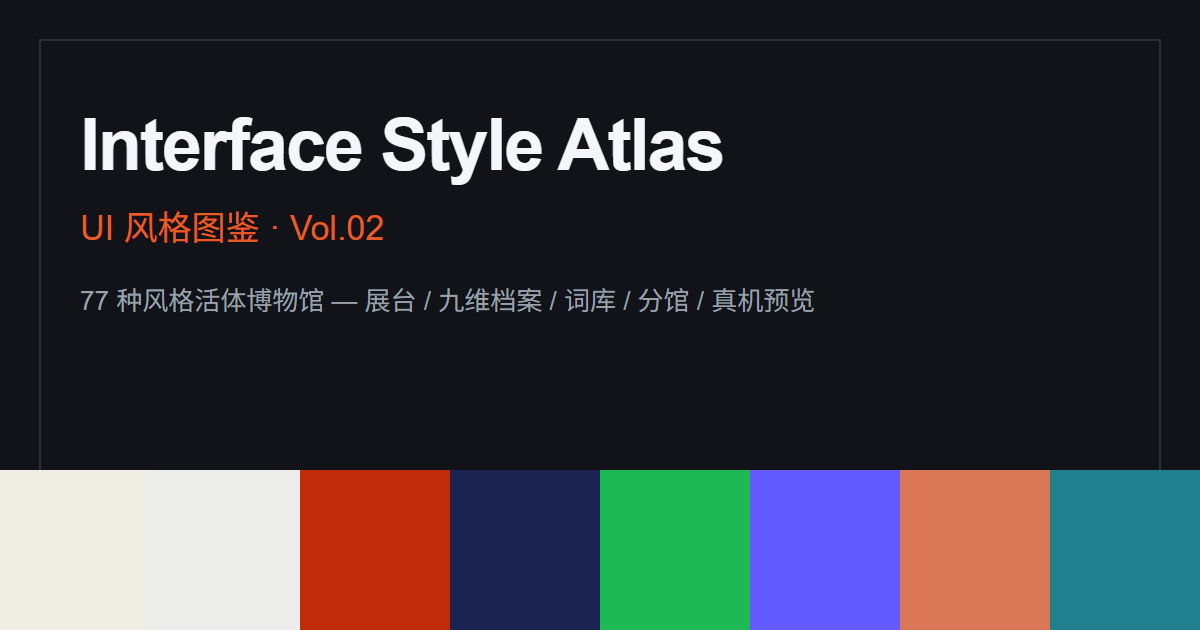
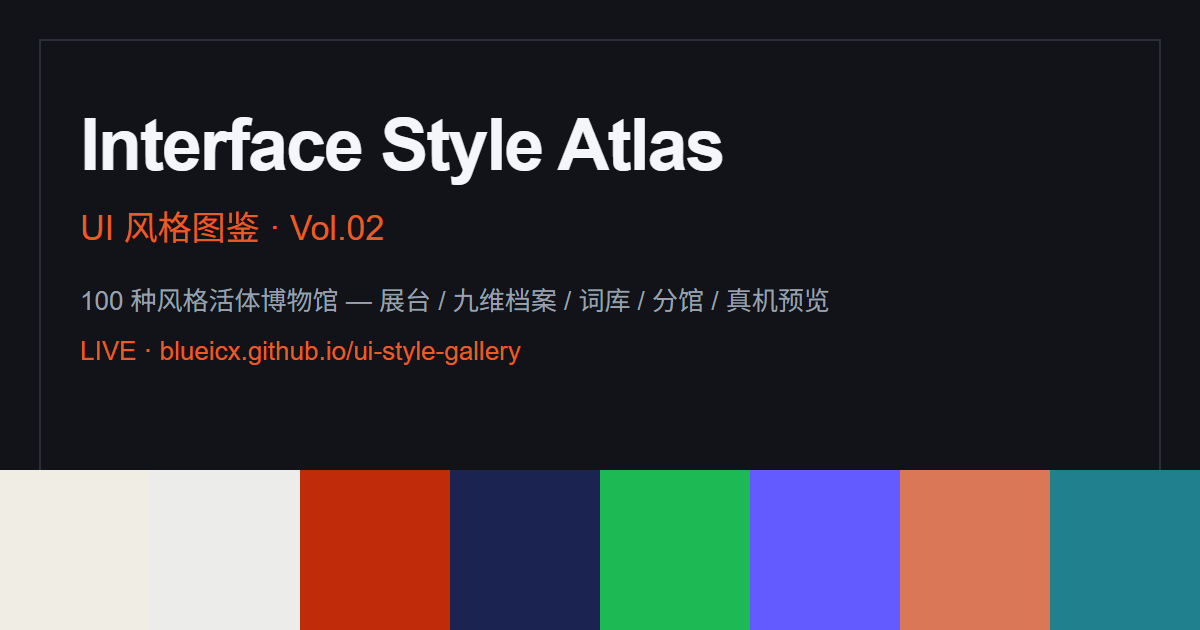
feat: English README (README.en.md), GitHub Pages live URL in docs/og/meta, bilingual count guards (16)

Changed region(s): [[0.0617, 0.4524, 0.7092, 0.5127], [0.0617, 0.5429, 0.4317, 0.573]]

diff --git a/verify.js b/verify.js
@@ -152,10 +152,21 @@ const docClaims = [
   ['手机区风格数',  rdNum(/手机专属区\D*?(\d+) 台/),      r.exhibits],
 ];
 if (kCmd) docClaims.push(['⌘K风格数', +kCmd[1], r.exhibits], ['⌘K视图数', +kCmd[2], tabs], ['⌘K词条数', +kCmd[3], r.lexTerms]);
+// 英文版手册 README.en.md 同受计数守卫（措辞锚点：'N UI design styles' / '**N colors**' / 'N design concepts' / 'N specimens' / 'N views'）
+const readmeEn = fs.existsSync(__dirname + '/README.en.md') ? fs.readFileSync(__dirname + '/README.en.md', 'utf8') : '';
+if (readmeEn) {
+  const enNum = re => { const m = readmeEn.match(re); return m ? +m[1] : null; };
+  docClaims.push(
+    ['EN风格数', enNum(/(\d+) UI design styles/), r.exhibits],
+    ['EN色卡数', enNum(/\*\*(\d+) colors\*\*/),   r.uniqueColors],
+    ['EN词条数', enNum(/(\d+) design concepts/),  r.lexTerms],
+    ['EN标本数', enNum(/(\d+) specimens/),         r.specimens],
+    ['EN视图数', enNum(/styles \/ (\d+) views/), tabs]);
+}
 const docDrift = docClaims
   .filter(c => c[1] === null || c[1] !== c[2])
   .map(c => c[0] + (c[1] === null ? ':正则未命中(README 措辞变了,需同步守卫)' : ':doc=' + c[1] + '/data=' + c[2]));
-expect('README 计数守卫(11 处文档数字=数据真值)', docClaims.length === 11 && docDrift.length === 0, docDrift.join('; ') || ('claims=' + docClaims.length));
+expect('README 双语计数守卫(' + docClaims.length + ' 处文档数字=数据真值)', docDrift.length === 0, docDrift.join('; ') || ('claims=' + docClaims.length));
 
 console.log(fails.length ? '\n✗ '+fails.length+' 项未通过' : '\nALL PASS');
 process.exit(fails.length ? 1 : 0);

diff --git a/index.html b/index.html
@@ -3,11 +3,14 @@
 <head>
 <meta charset="UTF-8">
 <meta name="viewport" content="width=device-width, initial-scale=1.0, viewport-fit=cover">
-<meta name="description" content="UI 风格图鉴 · 77 种界面设计风格活体博物馆：活体展台 / 九维档案 / 专业词库 / 维度分馆 / 手机真机预览">
+<meta name="description" content="UI 风格图鉴 · 100 种界面设计风格活体博物馆：活体展台 / 九维档案 / 专业词库 / 维度分馆 / 手机真机预览 · 100 UI styles in one living museum">
 <meta property="og:title" content="Interface Style Atlas · UI 风格图鉴 Vol.02">
-<meta property="og:description" content="77 种风格活体博物馆 — 展台 / 九维档案 / 词库 / 分馆 / 真机预览">
-<meta property="og:image" content="og.png">
+<meta property="og:description" content="100 种风格活体博物馆 — 展台 / 九维档案 / 词库 / 分馆 / 真机预览 · 100 UI styles side by side">
+<meta property="og:url" content="https://blueicx.github.io/ui-style-gallery/">
+<meta property="og:image" content="https://blueicx.github.io/ui-style-gallery/og.png">
 <meta name="twitter:card" content="summary_large_image">
+<meta name="twitter:image" content="https://blueicx.github.io/ui-style-gallery/og.png">
+<link rel="canonical" href="https://blueicx.github.io/ui-style-gallery/">
 <title>UI 风格图鉴 · Interface Style Atlas Vol.02</title>
 <meta property="og:type" content="website">
 <script>

diff --git a/README.en.md b/README.en.md
@@ -1,0 +1,117 @@
+# UI Style Atlas · Interface Style Atlas Vol.02
+
+🌐 **LIVE demo**: https://blueicx.github.io/ui-style-gallery/ ｜ 📦 GitHub: https://github.com/blueicx/ui-style-gallery
+🌍 English ｜ [🈶 中文](README.md)
+
+A "living museum" reference atlas of UI design styles: **100 UI design styles** rendered side by side on one identical component baseline (navigation / buttons / forms / cards), each with a nine-dimension design profile and a copy-ready AI prompt.
+
+Single-file delivery · zero build dependencies · works offline · WCAG AA baseline. Maintainers, read [HANDOFF.md](HANDOFF.md) first.
+
+## File inventory
+
+| File | Description |
+|------|-------------|
+| `index.html` | The atlas itself (fully self-contained: styles + data + 13 render engines) |
+| `verify.js` | Resident regression suite: `node verify.js` (or `npm test`) runs 46 assertions incl. bilingual README count guards; non-zero exit = regression |
+| `README.md` | Authoritative feature list (Chinese, for users); `README.en.md` — this file |
+| `HANDOFF.md` | Handoff doc (for maintainers): internals, checklists, pitfall list |
+| `add_style.js` | Style scaffold: `node add_style.js --file _spec_sXX.json` (transactional — refuses to write if the result wouldn't compile) |
+| `_spec_s75/76/77.json` … | Example spec files for the scaffold |
+| `bento-demo.html` | Case study: full Bento-style personal homepage |
+| `bento-dashboard.html` | Case study: Bento-style SaaS dashboard |
+| `swiss-portfolio.html` | Case study: Swiss International Style portfolio site (12-col grid / 0px corners / single signal red) |
+| `ui-style-atlas.svg` / `.ico` | Site icons |
+| `og.svg` / `og.png` | Social share card 1200×630 (png rendered from svg via headless Chrome) |
+| `package.json` | Script aliases (test/verify/add), zero npm dependencies |
+| `atlas-v1-backup.html` | Vol.01 archive (30-style edition) |
+
+## Collected styles (100)
+
+**Classics & movements (01–14)**: Swiss International · Neo-Brutalism · Neumorphic Glass · Skeuomorph · GitHub Dark · Terminal Phosphor · Pastel Candy · Newspaper Editorial · Memphis · Bento Grid · Material You · Y2K · Wabi-Sabi · Neo-Brutal Toy
+
+**Retro & tech aesthetics (15–28)**: Retro Arcade · Blueprint Tech · Artisan Craft · Dark Luxury · Dreamcore · Academia Prep · Pro Dark Panel · ASCII Retro-Futurism · Minimal Zen · Cyberpunk · Bauhaus · Constructivism · Acid Graphics · Swiss International (dark)
+
+**Contemporary & cultural (29–36)**: Fluent 2 · Neo-Chinese · Liquid Glass · Vaporwave · Frutiger Aero · Dark Academia · Solarpunk · Art Nouveau
+
+**Big-tech design languages (37–100)**: Apple HIG · IBM Carbon · Ant Design · WeUI · Spotify · Netflix · Linear · Vercel Geist · Stripe · Duolingo · Figma · Notion · Arc · Discord · TikTok · Slack · Airbnb · Douban · Steam · YouTube · Bilibili · Zhihu · Xiaohongshu · X · Reddit · Twitch · Pinterest · LinkedIn · WeChat Read · Pinduoduo · JD.com · Taobao · Weibo · Lark · Xianyu · DingTalk · Safari · Raycast · Claude · v0 · Perplexity · AI-native conversation flow · Conversations-as-UI · Linear dark engineering · Stripe fintech gradient · Japanese editorial magazine · Retro financial terminal · German functionalism · Instagram · NetEase Cloud Music · visionOS spatial glass · Telegram speed blue · Meituan · Alipay · Shopify Polaris · Atlassian Canvas · Salesforce Lightning · Adobe Spectrum · Uber · Revolut dark finance · Claymorphism · Risograph · Pixel Art 8-bit · Cassette Futurism · Webcore
+
+Every exhibit ships with: **number / bilingual name / era / one-line philosophy / best-fit & risky contexts / reference anchors / live component stage / nine-dimension profile / English AI prompt**.
+
+## Feature map
+
+### Browse & learn
+- **Live stages** — identical component baseline across styles; side-by-side comparison is instant
+- **Nine-dimension profiles** — philosophy / type / palette / spacing / shape / shadow / hierarchy / icons / component specs
+- **Lexicon** — 70 design concepts (profile terminology + **specimen language** + **motion patterns**: skeleton shimmer / odometer counters / magnetic hover / parallax layers, etc.): definition + AI keywords + reference cases + cross-links to exhibits and halls
+- **Dimension halls ×7** — specimen-wall architecture: Color Hall = site-wide deduplicated color wall (**312 colors**, hex + usage counts, sort by frequency or hue wheel; detail sheet adds **hue-neighbor suggestions** + a **⚖ WCAG contrast checker** — live ratio for any fg/bg, AA/AAA verdicts, protan/deutan/tritan simulation). The other six halls (type/shape/icon/comp/motion/shadow) = **76 specimens** (all 24 motion personalities genuinely play and honor `prefers-reduced-motion`; shadow specimens copy CSS in one click). Click any swatch or specimen → a layer lists every style using it; classification is hand-curated per style
+- **Deep links into halls** — `#/color?c=FFD166`, `#/shape?s=pill` open the detail layer directly; lexicon terms carry a "◈ see specimens" link; mashup prompts embed shape/shadow specimen jumps
+
+### Choose
+- **3-axis filter** — industry × base tone × mood dropdowns
+- **Full-text search** — covers names/descriptions/prompts/profiles; `Esc` clears; **pinyin search** — type `douyin`, `weixin`, `taobao` to hit Chinese styles
+- **⌘K command palette** — press `/`: one input reaches 100 styles / 18 views / 70 terms / common actions (theme toggle, mashup, wall, tuner); ↑↓ + Enter
+- **Favorites** — persisted in localStorage, "favorites only" filter; plus a management panel (view all, jump, clear)
+- **Recent views** — last 8 exhibits this session, one-click chips under the index bar
+- **A/B compare** — pick 2–3 exhibits → live mini-stages + six-dimension specs side by side
+- **▦ Wall mode** — density toggle: full profiles ⇄ thumbnail wall; click a card to dive back
+- **🎴 Guess-the-style** — flashcard quiz on real stage renders, four options; scoring + streaks + a mistake bank (localStorage, 30% chance to re-serve mistakes)
+- **🌌 Style galaxy** — force-directed universe from six-dimension genes: similar styles cluster (Swiss sits next to German functionalism; Y2K hugs Vaporwave). Drag-pan · wheel-zoom · hover name-tags · click to jump; color by palette or cluster
+- **🎚 Scale generator** (inside Color Hall) — anchor base/accent/dark of any style, interpolate a full 50–950 eleven-step ramp, click to copy
+- **✦ Feeling lucky** — random jump; once you have 4+ favorites it picks from those
+- **Smart index bar** — active pill auto-centers while scrolling, edge fade hints horizontal scroll
+
+### Use
+- **Swatch strip** — 4 signature colors per exhibit, click to copy
+- **CSS token export** — one-click `:root{}` block (type/shape comments included)
+- **`</>` Starter export** — downloads a style-specific `index.html + :root tokens` template
+- **🤖 AI tool deep links** — open v0.dev / ChatGPT with the prompt preloaded
+- **✎ Private notes** — one local note per exhibit (auto-saved), appended to MD export
+- **⧉ Copy MD profile** — the full nine-dimension profile as Markdown (era/fit/refs/prompt/colors)
+- **📲 PWA offline install** — inlined manifest + Service Worker (on https/localhost); "Add to Home Screen" turns it into an offline style handbook
+- **⎙ Print single card** — print one exhibit's profile (everything else hides)
+- **♿ Palette health badges** — pairwise WCAG contrast over each exhibit's 4 colors → AAA/AA/AA-large/fail rating (hover for ratios)
+- **🎚 Token tuner** — live sliders for radius/spacing/shadow on any stage; export the adjusted `:root`
+- **🧭 Curated paths** (view `#/paths`) — 8 task-based tours (AI stack / Chinese e-commerce / glass lineage / keyboard-first…), focus mode per stop
+- **🔥 Gene heat matrix** (DNA view) — 100×6 overview of all hall classifications; click a cell to jump to the specimen
+- **Figma Tokens export** — Tokens Studio JSON, import straight into Figma
+- **⤓ W3C Tokens export** — W3C Design Tokens format (`$value/$type/$description` + `$extensions`), Style Dictionary compatible
+- **Lexicon filter** — instant client-side filtering of the 70 terms
+- **AI prompts** — paste each exhibit's English prompt into Midjourney / Figma AI / v0 / Cursor
+- **JSON outlet** — copy the entire dataset for downstream tooling
+- **Mashup generator** — fuse two styles' tokens, **dual-stage live preview** (A's scene × B's skeleton side by side), English mashup prompt; lock either side and re-roll; **★ saved mixes** with share links (`?mix=s1+s43` reproduces)
+
+### Reading experience
+- **Distance-aware jumps** — targets over 1.5 screens teleport, close ones glide; all entry points share one engine
+- **Vertical progress rail** — 100 numbered ticks on the right edge; current exhibit elongates, hover names, click jumps (hidden on narrow screens)
+- **Term pill bar** — 70 term chips atop the lexicon; click scrolls + flash-highlights
+- **Views** — gallery / lexicon / cases + 7 dimension halls + **🕰 timeline** (130 years of style evolution, decade clusters) + **📱 handheld zone** (100 **interactive mock phones**: in-screen nav really switches tabs, toggles toggle, ▶ actually plays, the pixel-unit D-pad moves the sprite; 5 body shapes × 15+ nav modes × 20 in-screen builders derived per style) + **📷 retro cameras** (7 fully CSS-crafted cameras — rangefinder/SLR/twin-lens/folding/8mm/point-and-shoot — each with a live viewfinder preview filtered by film stock) + DNA / desktop / anti-pattern / galaxy / paths; hash routing auto-detects view containers, new halls need zero config; `J/K` keyboard nav inside the gallery
+- **URL state sync** — filters/search/favorites serialize into the link; sharing reproduces the view; `?focus=sXX` deep-links a phone
+- **Social sharing** — og:image 1200×630 card (`og.png`) + full og/twitter meta
+- **Light / dark themes** — follow system by default, manual choice persists (no first-paint flash)
+- **Responsive** — three breakpoint tiers, mobile drawer index (☰)
+- **Accessibility** — skip-link, aria-live announcements, focus rings, 44px targets, `prefers-reduced-motion`; modal focus traps (Tab cycling, focus return), specimen rows keyboard-activatable
+- **Print friendly** — `Ctrl+P` produces a paper handbook (interactions hidden, color kept, no split cards; halls become chapters, Color Hall prints a 64px swatch grid)
+- **Performance** — `content-visibility:auto` skips offscreen exhibits
+
+## Keyboard shortcuts
+
+| Key | Action |
+|-----|--------|
+| `/` | Open ⌘K command palette |
+| `?` | Shortcut cheat sheet |
+| `J` / `K` | Next / previous exhibit (respects filters, gallery only) |
+| `X` | Toggle favorite on current exhibit |
+| `Esc` | Close modals / clear search |
+
+## Extending
+
+Data-driven architecture: an exhibit = one `EXHIBITS[]` record + shared render templates. Adding a style:
+
+1. Append to `EXHIBITS` (id/name/en/era/desc/use/avoid/refs/spec/prompt/demoHTML/stageClass/demoClass)
+2. Add 4 palette colors to `PAL`, industry/base/mood tags to `META`
+3. Add reverse links in the `SEE` lexicon index if relevant
+
+Or just run `node add_style.js --file _spec_sNN.json` — the scaffold inserts everything and re-syncs doc counts. Run `node verify.js` afterwards; it must print ALL PASS.
+
+---
+*UI Style Atlas Vol.02 · single-file delivery · data-driven rendering · works offline*

diff --git a/HANDOFF.md b/HANDOFF.md
@@ -2,7 +2,7 @@
 
 > 交接日期：2026-08-31（批次 E 终版）｜ 仓库根：`E:\新建文件夹\ui-style-gallery`
 > 一句话：单文件「活体博物馆」UI 风格图鉴——**100 种风格**在同一组件基线上横向对比，配 70 词专业词库、7 座维度分馆、18 个视图与 9 大工具区。
-> 当前状态：**verify.js 全部断言 ALL PASS**（2026-08-31 批次 D 完成后实跑）；**已上传公开仓库** https://github.com/blueicx/ui-style-gallery （分支 main，2026-09-01 经 `gh repo create --public --source . --push` 推送，本地 origin 已配置）。
+> 当前状态：**verify.js 全部断言 ALL PASS**（2026-08-31 批次 D 完成后实跑）；**已上传公开仓库** https://github.com/blueicx/ui-style-gallery （分支 main，2026-09-01 推送；本地 origin 已配置）；**GitHub Pages 已上线** https://blueicx.github.io/ui-style-gallery/ （HTTP 200 实测）；英文手册 `README.en.md` 与双语计数守卫同批落地。
 
 ---
 
@@ -130,10 +130,10 @@ Start-Process -FilePath 'C:\Program Files\Google\Chrome\Application\chrome.exe' 
 
 ## 8. 遗留事项与建议下一步（按优先级）
 
-1. **og 分享图**仍是 87 风格版文案，扩到 100 后可重截（`--screenshot` 流程见 §5）。
+1. ~~og 分享图~~ 已重截为 100 风格版（2026-09-01，含 LIVE 地址行）。
 2. `_feat/` 已完成使命，feat.js 与主文件存在双源——如需改功能，改主文件即可，`_feat/` 只作存档（README/HANDOFF 已注明）。
-3. 英文站 i18n、在线取色（需服务端，违背无依赖铁律）——长期方向，暂缓。
-4. GitHub Pages 发布：仓库若公开，`Settings→Pages→main 分支根目录`即上线（PWA 在 https 下自动注册 SW）。
+3. 英文站全量 i18n、在线取色（需服务端，违背无依赖铁律）——长期方向，暂缓；README.en.md 已覆盖手册层英文。
+4. ~~GitHub Pages 发布~~ 已上线 https://blueicx.github.io/ui-style-gallery/ （REST 开启，push 自动重建；PWA SW 在 https 下注册）。
 5. 展品类风格（s90-s93 设计系统类）的 refs 均为官网域名，公开仓库注意时效性。
 
 ## 9. 相关技能（Hermes）

diff --git a/README.md b/README.md
@@ -1,5 +1,8 @@
 # UI 风格图鉴 · Interface Style Atlas Vol.02
 
+🌐 **在线版 LIVE**：https://blueicx.github.io/ui-style-gallery/ ｜ 📦 GitHub：https://github.com/blueicx/ui-style-gallery
+🈶 中文 ｜ [🌍 English](README.en.md)
+
 一个「活体博物馆」式的 UI 设计风格参考图鉴：**100 种设计风格**在完全相同的组件基线（导航 / 按钮 / 表单 / 卡片）上横向并排呈现，配九维设计档案与可复制的 AI 提示词。
 
 单文件交付 · 无构建依赖 · 离线可用 · WCAG AA 基线。新人接手先读 [HANDOFF.md](HANDOFF.md)。
@@ -10,7 +13,8 @@
 |------|------|
 | `index.html` | 图鉴主文件（全部自包含：样式 + 数据 + 13 个引擎） |
 | `verify.js` | 常驻校验套件：`node verify.js`（或 `npm test`）跑 46 项回归断言（含 README 计数守卫），退出码非 0 即有回归 |
-| `README.md` | 权威功能清单（面向使用者），11 处计数受 verify 守卫 |
+| `README.md` | 权威功能清单（面向使用者），16 处计数（中英双语）受 verify 守卫 |
+| `README.en.md` | 英文版手册（面向国际用户），核心计数同受双语守卫 |
 | `HANDOFF.md` | 交接文档（面向维护者）：内部结构、检查单、坑列表 |
 | `add_style.js` | 扩风格脚手架：`node add_style.js --file _spec_sXX.json`（事务式，编译不过不落盘） |
 | `_spec_s75/76/77.json` | 脚手架 spec 格式示例 |
